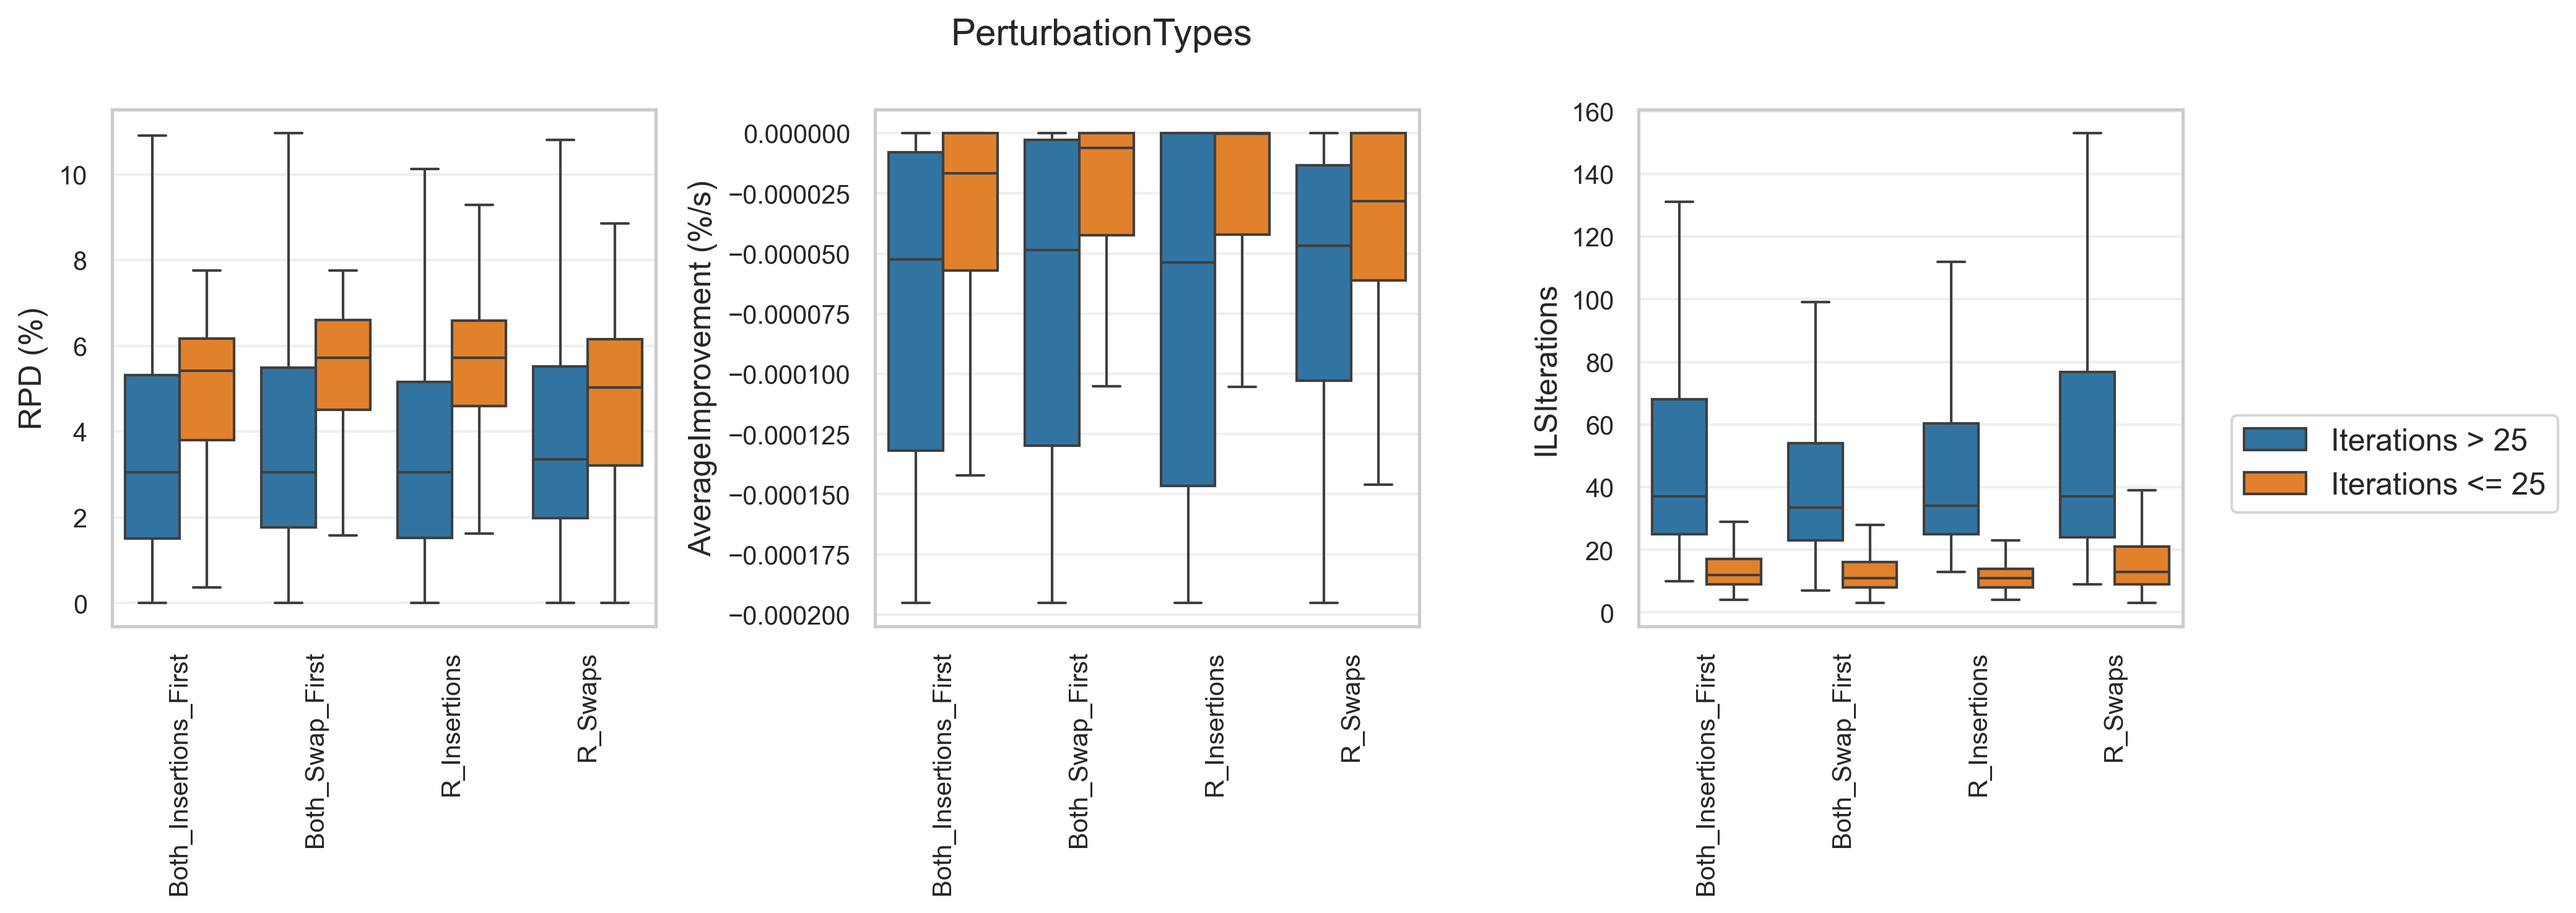
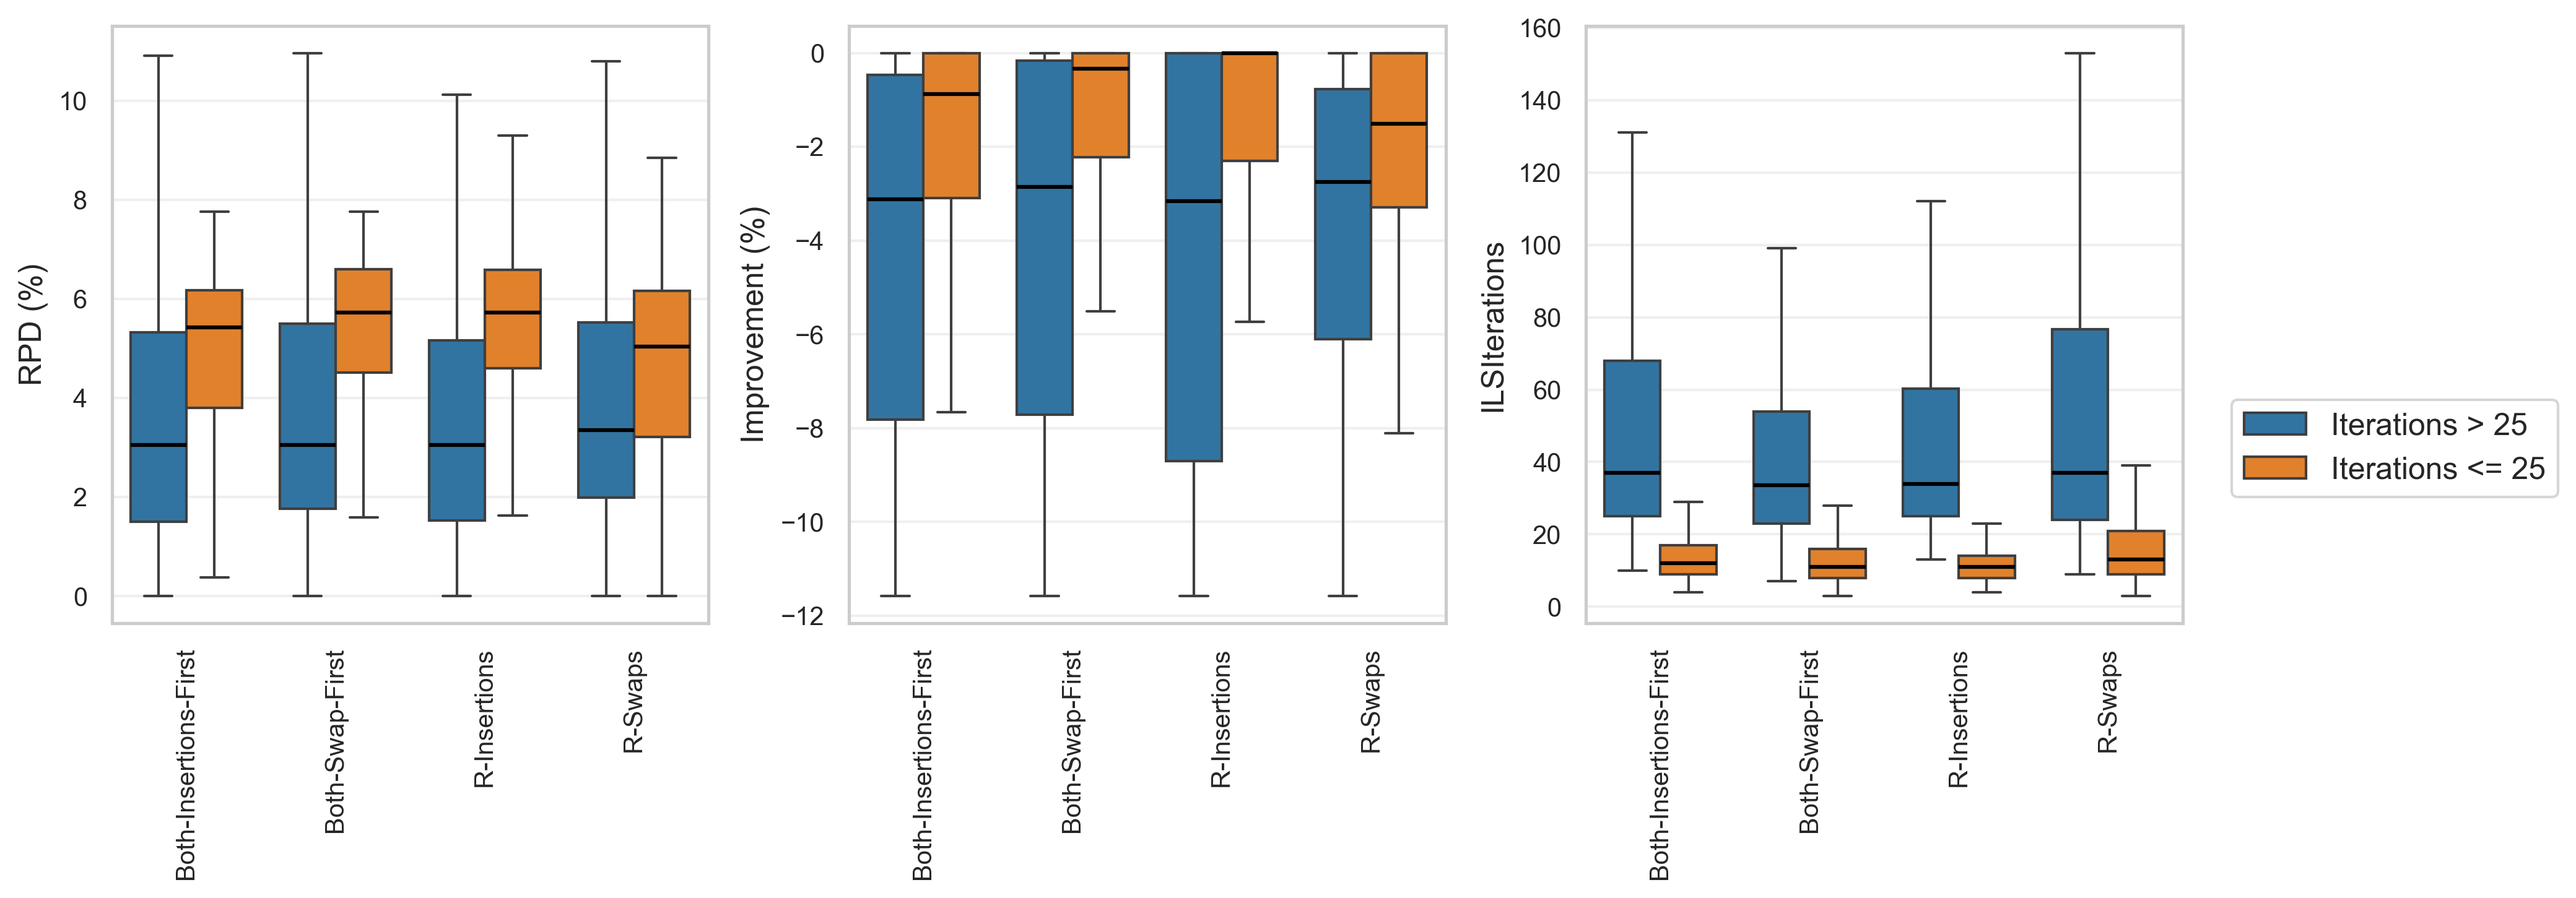
updated plots, names and titles etc.

diff --git a/src_files/appendix.tex b/src_files/appendix.tex
@@ -293,23 +293,23 @@ between \gls{LR}, \gls{XGB} and \gls{FFNN} models, with the latter representing 
 	\centering
 	\begin{subfigure}[t]{0.83\textwidth}
 		\centering
-		\includegraphics[width=\textwidth]{pictures/parameter_study/LimitNoImpr_base_parameter_study.png}
 		\caption{Parameter study LimitNoImpr.}
+		\includegraphics[width=\textwidth]{pictures/parameter_study/LimitNoImpr_base_parameter_study.png}
 	\end{subfigure}
 	\begin{subfigure}[t]{0.83\textwidth}
 		\centering
-		\includegraphics[width=\textwidth]{pictures/parameter_study/RandomMoves_base_parameter_study.png}
 		\caption{Parameter study RandomMoves}
+		\includegraphics[width=\textwidth]{pictures/parameter_study/RandomMoves_base_parameter_study.png}
 	\end{subfigure}
 	\begin{subfigure}[t]{0.83\textwidth}
 		\centering
-		\includegraphics[width=\textwidth]{pictures/parameter_study/LocalSearchTypes_base_parameter_study.png}
 		\caption{Parameter study for the order of LS neighborhoods.}
+		\includegraphics[width=\textwidth]{pictures/parameter_study/LocalSearchTypes_base_parameter_study.png}
 	\end{subfigure}
 	\begin{subfigure}[t]{0.83\textwidth}
 		\centering
-		\includegraphics[width=\textwidth]{pictures/parameter_study/PerturbationTypes_base_parameter_study.png}
 		\caption{Parameter study for the order and selection of perturbation neighborhoods.}
+		\includegraphics[width=\textwidth]{pictures/parameter_study/PerturbationTypes_base_parameter_study.png}
 	\end{subfigure}
 	\caption{Parameterstudy for the NoClassifier variant divided in two groups based on the average iterations.}
 \end{figure}
@@ -366,7 +366,7 @@ between \gls{LR}, \gls{XGB} and \gls{FFNN} models, with the latter representing 
 
 \begin{figure}[!ht]
 	\centering
-	\includegraphics[width=\linewidth]{pictures/parameter_study/Filter_UseFilterStartSolution_parameter_study.png}
+	\includegraphics[width=\linewidth]{pictures/parameter_study/UseFilterStartSolution_Filter_parameter_study.png}
 	\caption{Parameter study for usage of filter start solutions in the Filter variant.}
 	\label{fig:parameter_study_filter}
 \end{figure}
@@ -379,12 +379,12 @@ between \gls{LR}, \gls{XGB} and \gls{FFNN} models, with the latter representing 
 	\centering
 	\begin{subfigure}[t]{\textwidth}
 		\centering
-		\includegraphics[width=\linewidth]{pictures/parameter_study/SpeedUp_Interval_CP_Check_parameter_study.png}
+		\includegraphics[width=\linewidth]{pictures/parameter_study/Interval_CP_Check_SpeedUp_parameter_study.png}
 		\caption{Parameter study for frequency of CP checks.}
 	\end{subfigure}
 	\begin{subfigure}[t]{\textwidth}
 		\centering
-		\includegraphics[width=\linewidth]{pictures/parameter_study/SpeedUp_UseFilterStartSolution_parameter_study.png}
+		\includegraphics[width=\linewidth]{pictures/parameter_study/UseFilterStartSolution_SpeedUp_parameter_study.png}
 		\caption{Parameter study for usage of filter start solutions.}
 	\end{subfigure}
 	\caption{Parameter study of SpeedUp variant.}
@@ -398,17 +398,17 @@ between \gls{LR}, \gls{XGB} and \gls{FFNN} models, with the latter representing 
 	\centering
 	\begin{subfigure}[t]{\textwidth}
 		\centering
-		\includegraphics[width=\linewidth]{pictures/parameter_study/Hybrid_Interval_CP_Check_parameter_study.png}
+		\includegraphics[width=\linewidth]{pictures/parameter_study/Interval_CP_Check_Hybrid_parameter_study.png}
 		\caption{Parameter study for frequency of CP checks.}
 	\end{subfigure}
 	\begin{subfigure}[t]{\textwidth}
 		\centering
-		\includegraphics[width=\linewidth]{pictures/parameter_study/Hybrid_UseClassifierLocalSearch_parameter_study.png}
+		\includegraphics[width=\linewidth]{pictures/parameter_study/UseClassifierLocalSearch_Hybrid_parameter_study.png}
 		\caption{Parameter study for neighborhoods with CP check.}
 	\end{subfigure}
 	\begin{subfigure}[t]{\textwidth}
 		\centering
-		\includegraphics[width=\linewidth]{pictures/parameter_study/Hybrid_UseFilterStartSolution_parameter_study.png}
+		\includegraphics[width=\linewidth]{pictures/parameter_study/UseFilterStartSolution_Hybrid_parameter_study.png}
 		\caption{Parameter study for the usage of filter in the start solution.}
 	\end{subfigure}
 	\caption{Parameter study for Hybrid variant.}
